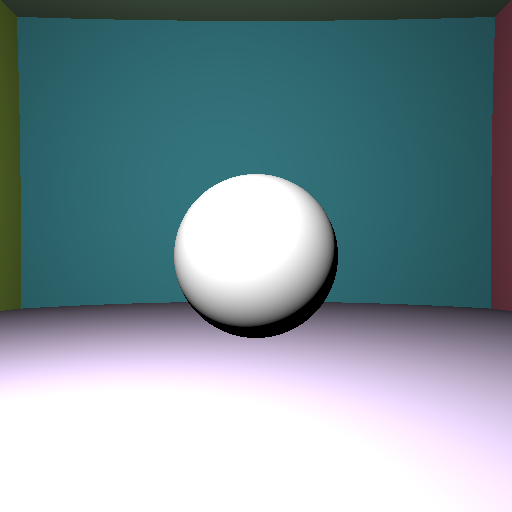
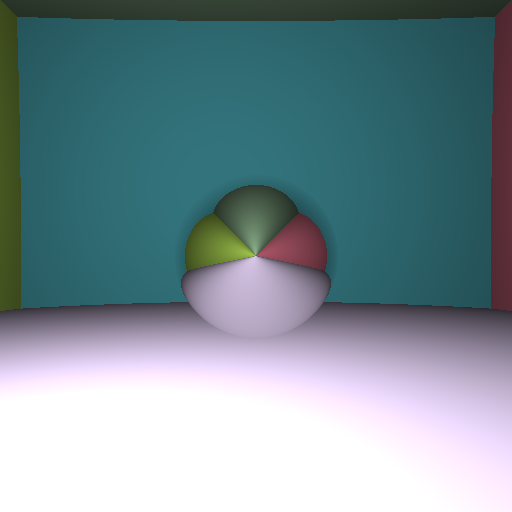
nicer

Changed region(s): [[0.3438, 0.3438, 0.6562, 0.6562]]

diff --git a/main.cpp b/main.cpp
@@ -67,6 +67,7 @@ public:
   Ray(const Vector &origin, const Vector &unit_direction)
       : O(origin), u(unit_direction) {};
   Vector O, u;
+  double n;
 };
 
 class Object {
@@ -79,6 +80,7 @@ public:
 
   Vector albedo;
   bool mirror, transparent;
+  double n;
 };
 
 class Sphere : public Object {
@@ -186,16 +188,22 @@ public:
       if (objects[object_id]->mirror) {
         // return getColor in the reflected direction, with recursion_depth+1
         // (recursively)
-        return getColor(Ray(P, ray.u - 2 * dot(ray.u, N) * N),
-                        recursion_depth - 1);
+        Vector new_vec = ray.u - 2 * dot(ray.u, N) * N;
+        new_vec.normalize();
+        return getColor(Ray(P + eps * N, new_vec), recursion_depth + 1);
       } // else
 
-      if (objects[object_id]->transparent) { // optional
-
+      if (objects[object_id]->transparent) {
         // return getColor in the refraction direction, with recursion_depth+1
         // (recursively)
-        return getColor(Ray(P, ray.u - 2 * dot(ray.u, N) * N),
-                        recursion_depth + 1);
+        // TODO
+        /*Vector new_vec_t = 1.0003 / 1.53 * (ray.u - dot(ray.u, N) * N);
+        Vector new_vec_n = -1 * N *
+                           sqrt(1 - sqr(ray.n - objects[object_id]->n) *
+                                        (1 - sqr(dot(ray.u, N))));
+        Vector new_vec = new_vec_t + new_vec_n;
+        new_vec.normalize();
+        return getColor(Ray(P + eps * N, new_vec), recursion_depth + 1);*/
       } // else
 
       // test if there is a shadow by sending a new ray
@@ -226,7 +234,7 @@ int main() {
     engine[i].seed(i);
   }
 
-  Sphere center_sphere(Vector(0, 0, 0), 10., Vector(0.8, 0.8, 0.8));
+  Sphere center_sphere(Vector(0, 0, 0), 10., Vector(0.8, 0.8, 0.8), true);
   Sphere wall_left(Vector(-1000, 0, 0), 940, Vector(0.5, 0.8, 0.1));
   Sphere wall_right(Vector(1000, 0, 0), 940, Vector(0.9, 0.2, 0.3));
   Sphere wall_front(Vector(0, 0, -1000), 940, Vector(0.1, 0.6, 0.7));
@@ -284,7 +292,7 @@ int main() {
           std::max(0., 255. * std::pow(color[2] / 255., 1. / scene.gamma)));
     }
   }
-  stbi_write_png("image.png", W, H, 3, &image[0], 0);
+  stbi_write_png("lab1.png", W, H, 3, &image[0], 0);
 
   return 0;
 }

diff --git a/README.md b/README.md
@@ -1,0 +1,6 @@
+You have to have the `stb` headers inside `\usr\local\include\stb` for working flawlessly
+
+```
+make
+./main
+```
